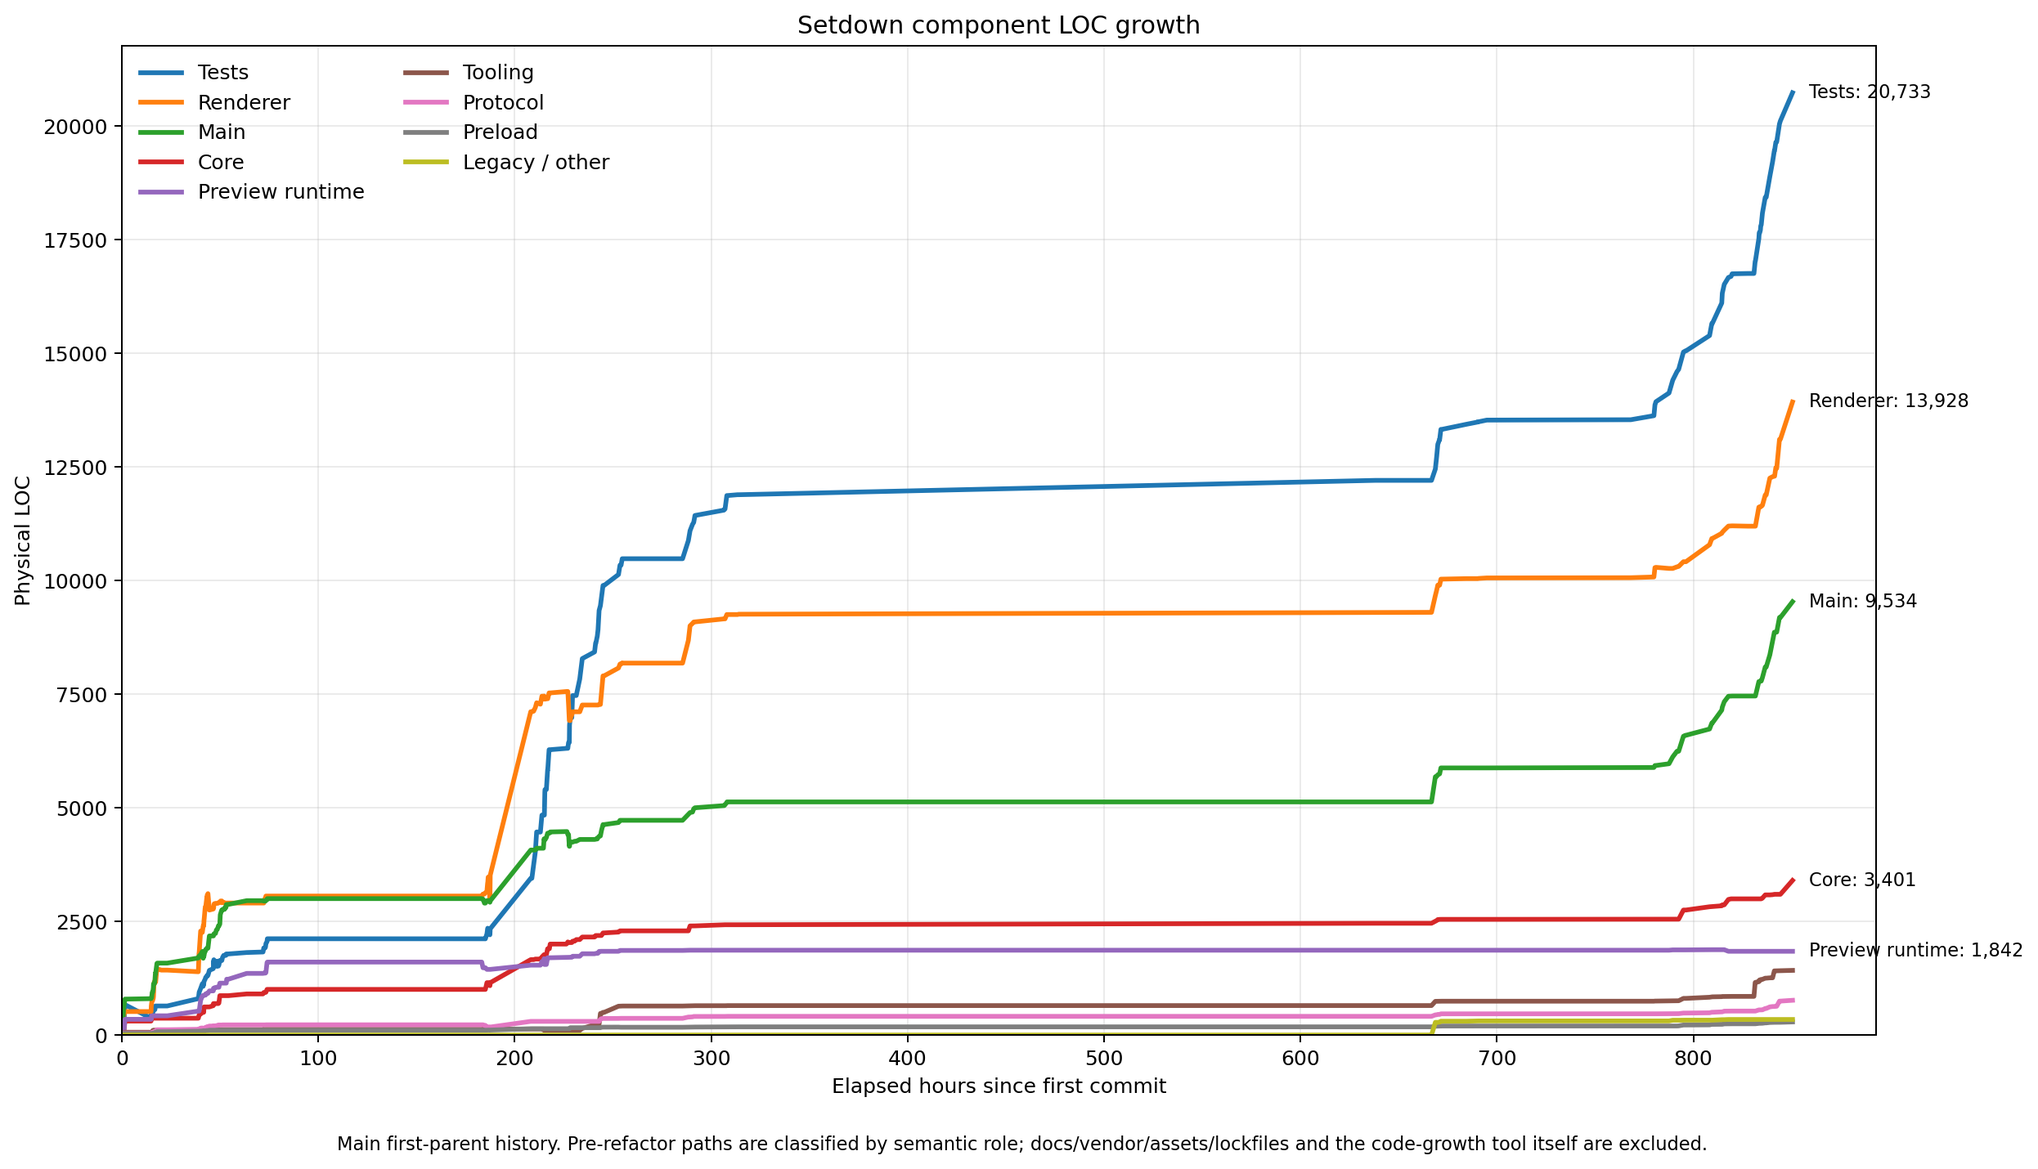
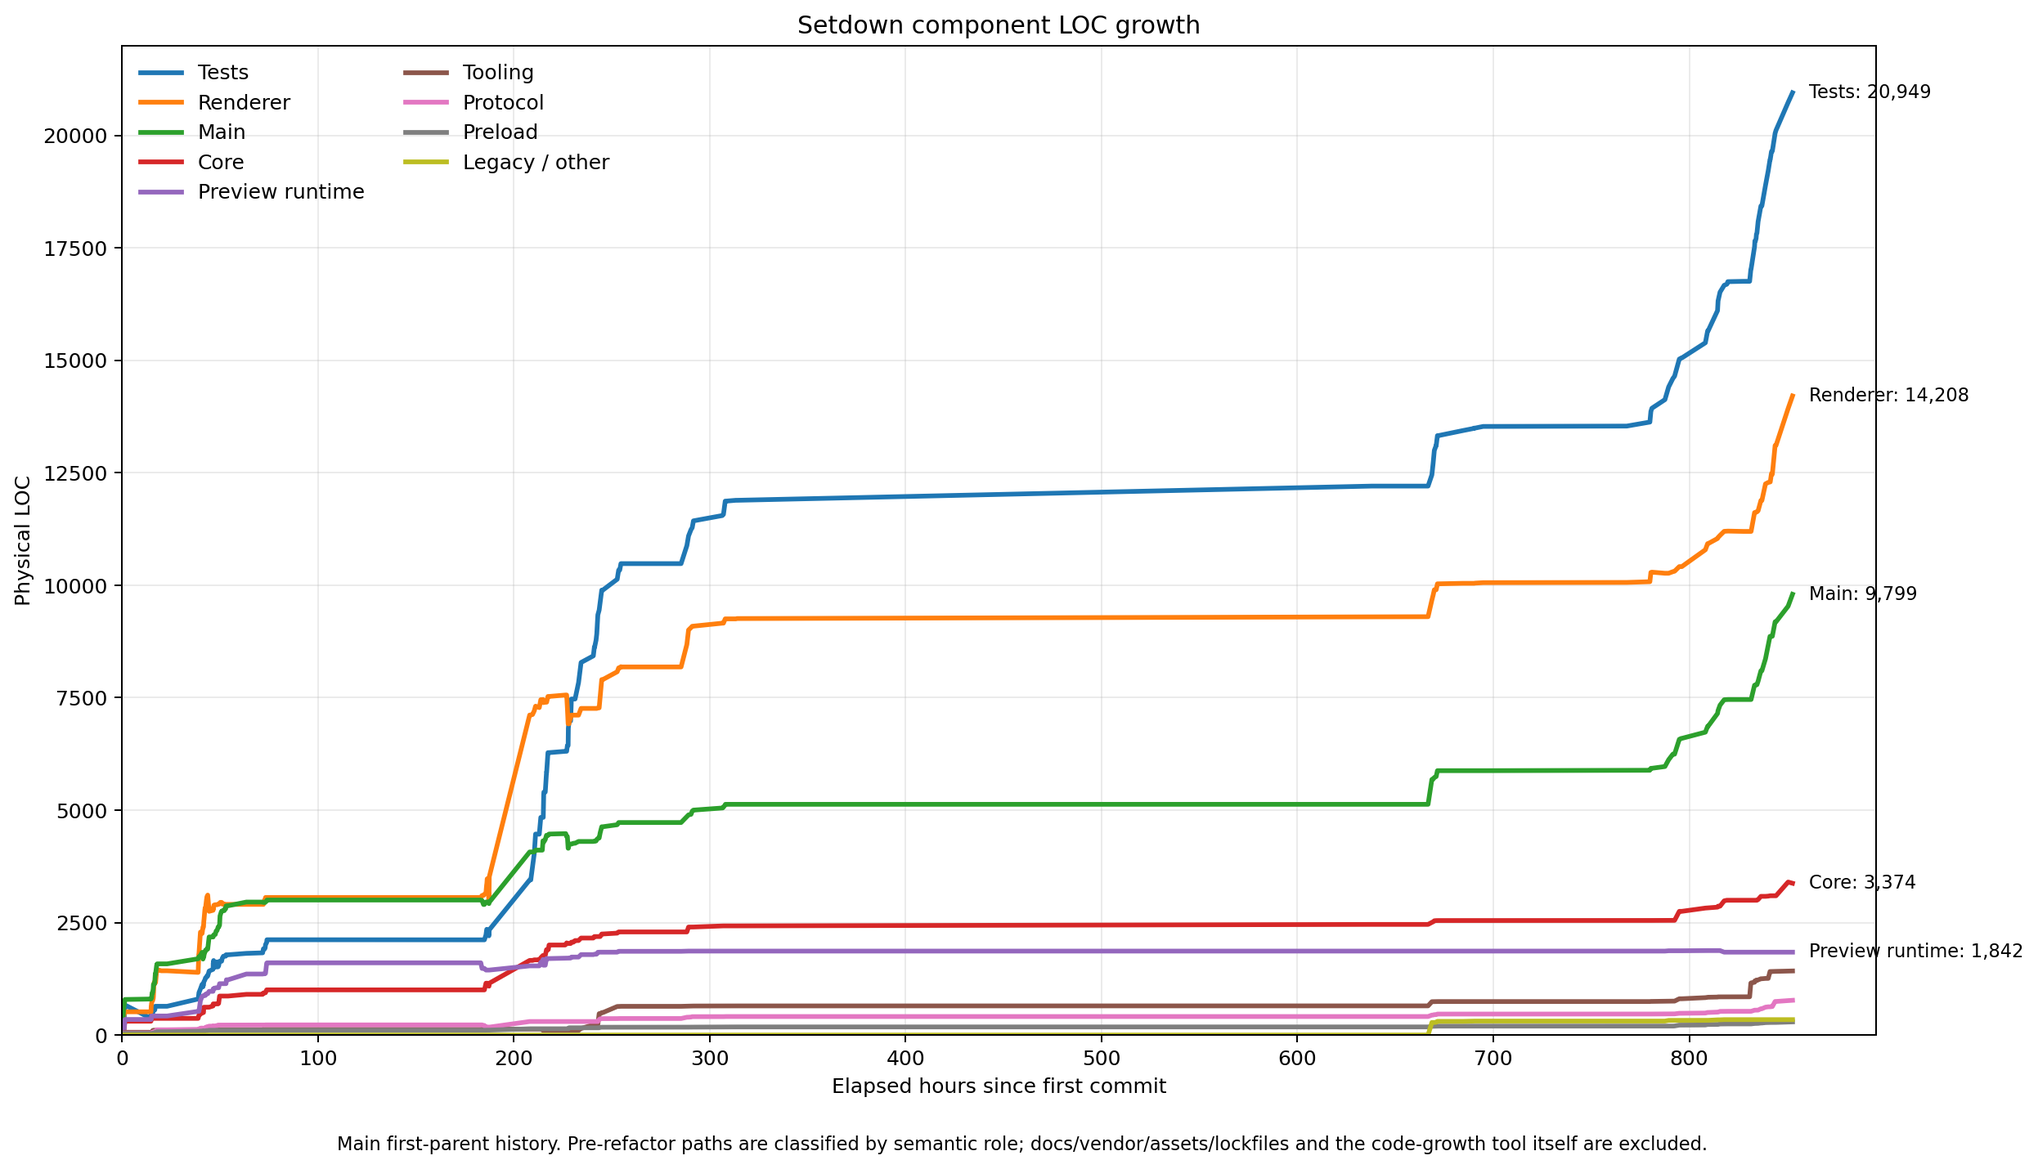
feat(notebook): implement lightweight diagnostics for Python files and notebooks

diff --git a/apps/desktop/test/e2e/language-support.spec.ts b/apps/desktop/test/e2e/language-support.spec.ts
@@ -11,7 +11,7 @@ test('Python diagnostics, completion, rename and Undo use the ordinary document'
   const root = await mkdtemp(path.join(os.tmpdir(), 'setdown-language-'));
   const config = await mkdtemp(path.join(os.tmpdir(), 'setdown-language-config-'));
   const file = path.join(root, 'main.py');
-  const original = 'def greeting(name: str) -> str:\n    return name.upper()\n\nvalue: int = "wrong"\nprint(greeting("Setdown"))\n';
+  const original = 'def greeting(name: str) -> str:\n    return name.upper()\n\nvalue: int = "wrong"\nmissing_value\nprint(greeting("Setdown"))\n';
   await writeFile(file, original);
   const { ELECTRON_RUN_AS_NODE: _ignored, ...env } = process.env;
   const application = await electron.launch({ args: ['.', file], env: { ...env, XDG_CONFIG_HOME: config } });
@@ -20,7 +20,8 @@ test('Python diagnostics, completion, rename and Undo use the ordinary document'
     page.on('console', message => { if (message.type() === 'error') console.log('renderer:', message.text()); });
     await focusApplication(application);
     await expect(page.locator('.editor-host')).toHaveAttribute('data-language-server', 'ready', { timeout: 25_000 });
-    await expect(page.locator('.squiggly-error').first()).toBeVisible({ timeout: 15_000 });
+    await expect(page.locator('.squiggly-warning').first()).toBeVisible({ timeout: 15_000 });
+    await expect(page.locator('.squiggly-error')).toHaveCount(0);
     const editor = page.locator('.editor-surface').getByRole('textbox', { name: 'Editor content' });
     await editor.press('Control+End');
     await editor.pressSequentially('greet');
@@ -67,7 +68,7 @@ test('definition opens the existing Setdown tab and Python diagnostics survive r
     await expect(page.getByRole('tab', { name: /helpers\.py/ })).toHaveAttribute('aria-selected', 'true', { timeout: 15_000 });
     await editor.press('Control+End');
     await editor.pressSequentially('\nunknown_name');
-    await expect(page.locator('.squiggly-error').first()).toBeVisible({ timeout: 15_000 });
+    await expect(page.locator('.squiggly-warning').first()).toBeVisible({ timeout: 15_000 });
     // Use the real Monaco command palette to exercise the restart action.
     await editor.press('F1');
     await page.locator('.quick-input-box input').fill('>Restart Language Servers');
@@ -75,7 +76,7 @@ test('definition opens the existing Setdown tab and Python diagnostics survive r
     await page.locator('.quick-input-box input').press('Enter');
     await expect(page.locator('.quick-input-widget')).toBeHidden();
     await expect(page.locator('.editor-host')).toHaveAttribute('data-language-server', 'ready', { timeout: 25_000 });
-    await expect(page.locator('.squiggly-error').first()).toBeVisible({ timeout: 15_000 });
+    await expect(page.locator('.squiggly-warning').first()).toBeVisible({ timeout: 15_000 });
     expect(await readFile(path.join(root, 'helpers.py'), 'utf8')).not.toContain('unknown_name');
   } finally { await disposeApplication(application); await rm(root, { recursive: true, force: true }); await rm(config, { recursive: true, force: true }); }
 });
@@ -125,17 +126,17 @@ test('Save As reconnects Python at the new path and preserves Undo', async () =>
     await expect(page.locator('.editor-host')).toHaveAttribute('data-language-server', 'ready', { timeout: 25_000 });
     const editor = page.locator('.editor-surface').getByRole('textbox', { name: 'Editor content' });
     await editor.press('Control+End'); await editor.pressSequentially('unknown_name');
-    await expect(page.locator('.squiggly-error').first()).toBeVisible();
+    await expect(page.locator('.squiggly-warning').first()).toBeVisible();
     await application.evaluate(({ dialog, BrowserWindow }, target) => {
       dialog.showSaveDialog = (async () => ({ canceled: false, filePath: target })) as typeof dialog.showSaveDialog;
       BrowserWindow.getAllWindows()[0].webContents.send('app:command', 'save-as');
     }, saved);
     await expect(page.getByRole('tab', { name: /renamed\.py/ })).toBeVisible();
     await expect(page.locator('.editor-host')).toHaveAttribute('data-language-server', 'ready');
-    await expect(page.locator('.squiggly-error').first()).toBeVisible();
+    await expect(page.locator('.squiggly-warning').first()).toBeVisible();
     await editor.press('Control+z'); await editor.press('Control+s');
     await expect.poll(() => readFile(saved, 'utf8')).toBe('value = 1\n');
-    await expect(page.locator('.squiggly-error')).toHaveCount(0);
+    await expect(page.locator('.squiggly-warning')).toHaveCount(0);
     expect(await readFile(file, 'utf8')).toBe('value = 1\n');
   } finally { await disposeApplication(application); await rm(root, { recursive: true, force: true }); await rm(config, { recursive: true, force: true }); }
 });
@@ -185,7 +186,7 @@ test('server crash preserves unsaved edits; restart recovers and window close re
     await expect(page.locator('.editor-host')).toHaveAttribute('data-language-server', 'ready', { timeout: 25_000 });
     await expect(management.locator('.state')).toHaveText('Running');
     await management.getByRole('button', { name: 'Close language support' }).click();
-    await expect(page.locator('.squiggly-error').first()).toBeVisible();
+    await expect(page.locator('.squiggly-warning').first()).toBeVisible();
     pids.splice(0, pids.length, ...await application.evaluate(() => (globalThis as unknown as { languagePids: number[] }).languagePids));
     expect(pids).toHaveLength(2);
     expect(await readFile(file, 'utf8')).toBe('value = 1\n');
@@ -204,7 +205,7 @@ test('first Python Working Tree shares diagnostics and Undo with the ordinary ed
   await writeFile(file, 'value: int = 1\n');
   await exec('git', ['add', '.'], { cwd: root });
   await exec('git', ['commit', '-m', 'base'], { cwd: root });
-  await writeFile(file, 'value: int = "wrong"\n');
+  await writeFile(file, 'value = missing_value\n');
   const { ELECTRON_RUN_AS_NODE: _ignored, ...env } = process.env;
   const application = await electron.launch({ args: ['.'], env: { ...env, XDG_CONFIG_HOME: config } });
   try {
@@ -216,8 +217,8 @@ test('first Python Working Tree shares diagnostics and Undo with the ordinary ed
     await page.getByRole('button', { name: 'Source Control', exact: true }).click();
     await page.locator('.git-change-open').click();
     const modified = page.locator('.modified-in-monaco-diff-editor');
-    await expect(modified.locator('.squiggly-error').first()).toBeVisible({ timeout: 25_000 });
-    await expect(page.locator('.original-in-monaco-diff-editor .squiggly-error')).toHaveCount(0);
+    await expect(modified.locator('.squiggly-warning').first()).toBeVisible({ timeout: 25_000 });
+    await expect(page.locator('.original-in-monaco-diff-editor .squiggly-warning')).toHaveCount(0);
     const source = modified.getByRole('textbox');
     await source.press('Control+End'); await source.pressSequentially('unknown_name');
     await page.locator('.git-diff-tab .tab-close').click();
@@ -225,7 +226,7 @@ test('first Python Working Tree shares diagnostics and Undo with the ordinary ed
     await expect(page.locator('.editor-surface .view-lines')).toContainText('unknown_name');
     await ordinary.press('Control+z');
     await expect(page.locator('.editor-surface .view-lines')).not.toContainText('unknown_name');
-    await expect(page.locator('.editor-surface .squiggly-error').first()).toBeVisible();
-    expect(await readFile(file, 'utf8')).toBe('value: int = "wrong"\n');
+    await expect(page.locator('.editor-surface .squiggly-warning').first()).toBeVisible();
+    expect(await readFile(file, 'utf8')).toBe('value = missing_value\n');
   } finally { await disposeApplication(application); await rm(root, { recursive: true, force: true }); await rm(config, { recursive: true, force: true }); }
 });

diff --git a/apps/desktop/src/main/language/server-session.test.ts b/apps/desktop/src/main/language/server-session.test.ts
@@ -7,10 +7,11 @@ import { pathToFileURL } from 'node:url';
 import { CancellationTokenSource } from 'vscode-jsonrpc/node';
 import type { FullDocumentDiagnosticReport, Hover, PublishDiagnosticsParams } from 'vscode-languageserver-protocol';
 import { serverProfiles } from './server-definitions';
+import { notebookPythonAnalysis } from './python-analysis';
 import { ServerSession } from './server-session';
 
 const require = createRequire(import.meta.url);
-const pullProfile = { ...serverProfiles.pyright, renameAfterDiagnostics: false, initializationOptions: { ...serverProfiles.pyright.initializationOptions, disablePullDiagnostics: false } };
+const pullProfile = { ...serverProfiles.pyright, configuration: { python: { analysis: { typeCheckingMode: 'basic' } } }, renameAfterDiagnostics: false, initializationOptions: { ...serverProfiles.pyright.initializationOptions, disablePullDiagnostics: false } };
 const sessions: ServerSession[] = [];
 const roots: string[] = [];
 afterEach(async () => {
@@ -145,3 +146,37 @@ test('workspace rename includes unopened Python files immediately after initiali
   const result = await server.request<import('vscode-languageserver-protocol').WorkspaceEdit>('textDocument/rename', { textDocument: { uri }, position: { line: 0, character: 5 }, newName: 'welcome' });
   expect(JSON.stringify(result)).toContain(pathToFileURL(main).href);
 });
+
+test.each(['pyright', 'basedpyright'])('%s off preset keeps core diagnostics and inference without type noise', async module => {
+  const root = await mkdtemp(path.join(os.tmpdir(), 'setdown-light-diagnostics-')); roots.push(root);
+  const uri = pathToFileURL(path.join(root, 'main.py')).href;
+  const analysis = module === 'basedpyright' ? notebookPythonAnalysis
+    : (serverProfiles.pyright.configuration.python as { analysis: Record<string, unknown> }).analysis;
+  const profile = { ...serverProfiles.pyright, renameAfterDiagnostics: false,
+    configuration: { python: { analysis }, basedpyright: { analysis } } };
+  const published: PublishDiagnosticsParams[] = [];
+  const failures: string[] = [];
+  const server = new ServerSession({ executable: process.execPath, args: [require.resolve(`${module}/langserver.index.js`), '--stdio'] },
+    root, params => published.push(params), message => failures.push(message), profile);
+  sessions.push(server); await server.ready;
+  const text = 'from typing import Literal\n'
+    + 'def read_csv(*, float_precision: Literal["high"]) -> object:\n    return object()\n'
+    + 'frame = read_csv(float_precision="round_trip")\nframe.groupby("method")\n'
+    + 'row = (3,)\nrow.R_nominal\ncount: int = "wrong"\n'
+    + 'import setdown_missing_module_9a72\nprint(setdown_missing_name)\n';
+  await server.notify('textDocument/didOpen', { textDocument: { uri, languageId: 'python', version: 1, text } });
+  await expect.poll(() => published.at(-1)?.diagnostics.filter(d => d.severity === 1 || d.severity === 2).map(d => d.code).sort(), { timeout: 15_000 })
+    .toEqual(['reportMissingImports', 'reportUndefinedVariable']);
+  expect(published.at(-1)?.diagnostics.filter(d => d.code === 'reportMissingImports' || d.code === 'reportUndefinedVariable').every(d => d.severity === 2)).toBe(true);
+  const hover = await server.request<Hover>('textDocument/hover', { textDocument: { uri }, position: { line: 5, character: 1 } });
+  expect(JSON.stringify(hover)).toContain('tuple');
+  const completions = await server.request('textDocument/completion', { textDocument: { uri }, position: { line: 4, character: 6 } });
+  expect(JSON.stringify(completions)).toContain('__class__');
+  await server.notify('textDocument/didChange', { textDocument: { uri, version: 2 }, contentChanges: [{ text: 'values = [\n' }] });
+  await expect.poll(() => published.at(-1)?.version, { timeout: 15_000 }).toBe(2);
+  expect(published.at(-1)?.diagnostics.some(d => d.severity === 1)).toBe(true);
+  await server.notify('textDocument/didChange', { textDocument: { uri, version: 3 }, contentChanges: [{ text: 'values = []\n' }] });
+  await expect.poll(() => published.at(-1)?.version, { timeout: 15_000 }).toBe(3);
+  expect(published.at(-1)?.diagnostics).toEqual([]);
+  expect(failures).toEqual([]);
+}, 30_000);

diff --git a/apps/desktop/test/e2e/notebook.spec.ts b/apps/desktop/test/e2e/notebook.spec.ts
@@ -193,7 +193,7 @@ test('Python cells run in one kernel, persist results, and reset discards variab
   } finally { await disposeApplication(application); await rm(root, { recursive: true, force: true }); }
 });
 
-test('native notebook analysis accepts IPython cells while retaining real errors and isolated cell ranges', async () => {
+test('native notebook analysis uses lightweight diagnostics with IPython and isolated cell ranges', async () => {
   test.setTimeout(90_000);
   const root = await mkdtemp(path.join(os.tmpdir(), 'setdown-notebook-analysis-')), file = path.join(root, 'analysis.ipynb');
   const sources = ['%who\nimport math\nimport asyncio\nimport only_a', 'await asyncio.sleep(0)\nprint(math.sqrt(9), only_a.VALUE)\ndisplay(1)\nget_ipython()', 'count: int = "wrong"'];
@@ -223,12 +223,12 @@ test('native notebook analysis accepts IPython cells while retaining real errors
     const diagnostics = (version: number, id: string) => page.evaluate(({ version, id }) => (window as any).notebookAnalysis.diagnostics[`${version}:${id}`]?.diagnostics, { version, id });
     await expect.poll(() => diagnostics(1, 'cell0'), { timeout: 30_000 }).toEqual([]);
     await expect.poll(() => diagnostics(1, 'cell1'), { timeout: 30_000 }).toEqual([]);
-    await expect.poll(async () => (await diagnostics(1, 'cell2'))?.some((d: any) => /int/.test(d.message) && d.severity === 1), { timeout: 30_000 }).toBe(true);
+    await expect.poll(() => diagnostics(1, 'cell2'), { timeout: 30_000 }).toEqual([]);
     await page.evaluate(async () => { await (window as any).marktex.language.changeNotebook('analysis-probe', 2, [
-      { id: 'cell0', version: 2, text: 'values = [' }, { id: 'cell1', version: 2, text: 'print("valid")' }, { id: 'cell2', version: 2, text: 'count: int = 1' },
+      { id: 'cell0', version: 2, text: 'values = [' }, { id: 'cell1', version: 2, text: 'print(missing_name)' }, { id: 'cell2', version: 2, text: 'count: int = 1' },
     ]); });
     await expect.poll(async () => (await diagnostics(2, 'cell0'))?.some((d: any) => d.severity === 1), { timeout: 30_000 }).toBe(true);
-    await expect.poll(() => diagnostics(2, 'cell1'), { timeout: 30_000 }).toEqual([]);
+    await expect.poll(async () => (await diagnostics(2, 'cell1'))?.some((d: any) => d.code === 'reportUndefinedVariable' && d.severity === 2), { timeout: 30_000 }).toBe(true);
     await expect.poll(() => diagnostics(2, 'cell2'), { timeout: 30_000 }).toEqual([]);
     await page.evaluate(async () => { await (window as any).marktex.language.changeNotebook('analysis-probe', 3, [
       { id: 'cell2', version: 3, text: 'numbers = [1, 2]' }, { id: 'cell1', version: 3, text: 'print(sum(numbers))' },

diff --git a/apps/desktop/src/main/language/notebook-language-host.ts b/apps/desktop/src/main/language/notebook-language-host.ts
@@ -5,6 +5,7 @@ import type { LanguageCell, LanguageConnection, LanguageDocument, LanguageEvent,
 import type { WindowState } from '../windows/window-state';
 import { canonicalPath } from '../documents/file-system';
 import { ServerSession } from './server-session';
+import { notebookPythonAnalysis } from './python-analysis';
 import { notebookPython } from '../notebook/python-environments';
 
 const methods = new Set<LanguageMethod>(['textDocument/completion', 'textDocument/hover', 'textDocument/signatureHelp',
@@ -71,8 +72,9 @@ export class NotebookLanguageHost {
       const session = { state, document: { ...document }, cells: this.cells(uri, document.cells), uri, phase: 'starting', epoch: 0, requests: new Map(), ready: false } as Session;
       // Notebook mode supplies display(); the hidden first cell binds IPython's
       // runtime get_ipython() with its installed types. Neither source is rewritten.
-      // Explicit notebook-scoped config avoids changing the user's ordinary .py server.
-      const analysis = { typeCheckingMode: 'basic', diagnosticMode: 'openFilesOnly', autoSearchPaths: true, useLibraryCodeForTypes: true };
+      // Match VS Code's lightweight Python diagnostics; inference still powers
+      // completion/hover. Let the server's off preset own the diagnostic rules.
+      const analysis = notebookPythonAnalysis;
       session.server = new ServerSession({ executable: process.execPath, args: [entry, '--stdio'], env: { ...env, ELECTRON_RUN_AS_NODE: '1' } },
         state.projectRoot ?? path.dirname(file), params => {
           if (this.sessions.get(key) !== session) return;

diff --git a/apps/desktop/src/main/language/python-analysis.ts b/apps/desktop/src/main/language/python-analysis.ts
@@ -1,0 +1,16 @@
+/** basedpyright 1.40.2's off preset also disables the four core warnings that
+ * Pyright/Pylance keep in off mode. Restore only that upstream baseline.
+ * https://github.com/microsoft/pyright/blob/main/docs/configuration.md#diagnostic-rule-defaults
+ * Type inference and notebook synchronization remain enabled. */
+export const notebookPythonAnalysis = {
+  typeCheckingMode: 'off',
+  diagnosticMode: 'openFilesOnly',
+  autoSearchPaths: true,
+  useLibraryCodeForTypes: true,
+  diagnosticSeverityOverrides: {
+    reportMissingImports: 'warning',
+    reportMissingModuleSource: 'warning',
+    reportInvalidTypeForm: 'warning',
+    reportUndefinedVariable: 'warning',
+  },
+};

diff --git a/docs/notebooks.md b/docs/notebooks.md
@@ -98,8 +98,15 @@ Text output display is limited to 200,000 characters, HTML/Markdown rendering to
 The bundled **basedpyright 1.40.2** analyzer receives separate Python cell documents
 through LSP notebook synchronization. It supports notebook `await`, magic/shell
 syntax and notebook-order dependencies. `display` and `get_ipython` have notebook
-context. Genuine type/name errors remain enabled; runtime execution order does not
-rewrite static document-order analysis. Non-Python
+context. Python files and notebooks use VS Code-style lightweight diagnostics by
+default: syntax errors remain errors; undefined names, unresolved imports, missing
+module sources and invalid type forms remain warnings. Broad type-checking
+diagnostics (including argument, overload and attribute mismatches) are off;
+completion, hover and navigation still use type inference. There is no separate
+type-checking mode selector. basedpyright disables even those core warnings in its
+`off` preset, so Setdown explicitly restores the four Pyright/Pylance defaults
+through server settings. Runtime execution order does not rewrite static
+document-order analysis. Non-Python
 notebooks can be edited and retain their metadata; notebook LSP mapping currently
 targets Python. Cross-cell rename, code actions, formatting and completion edits
 that cross cell boundaries are withheld until they can be applied transactionally.

diff --git a/README.md b/README.md
@@ -144,6 +144,9 @@ Open the project folder for a shared analysis root. With no folder open, C/C++
 finds the nearest ancestor containing `.clangd`, `compile_commands.json`,
 `compile_flags.txt`, `CMakeLists.txt` or `.git`; otherwise it uses the file's folder.
 Python uses the file's folder and reads `pyrightconfig.json` or `[tool.pyright]`.
+Python files and notebooks default to lightweight diagnostics (`typeCheckingMode: off`):
+syntax errors and core name/import warnings remain, while broad type diagnostics
+are disabled. Completion, hover and navigation remain available.
 clangd itself reads [compilation commands](https://clangd.llvm.org/design/compile-commands)
 and [.clangd configuration](https://clangd.llvm.org/config), including include paths,
 defines, language standards and header inference. For CMake projects, generate
